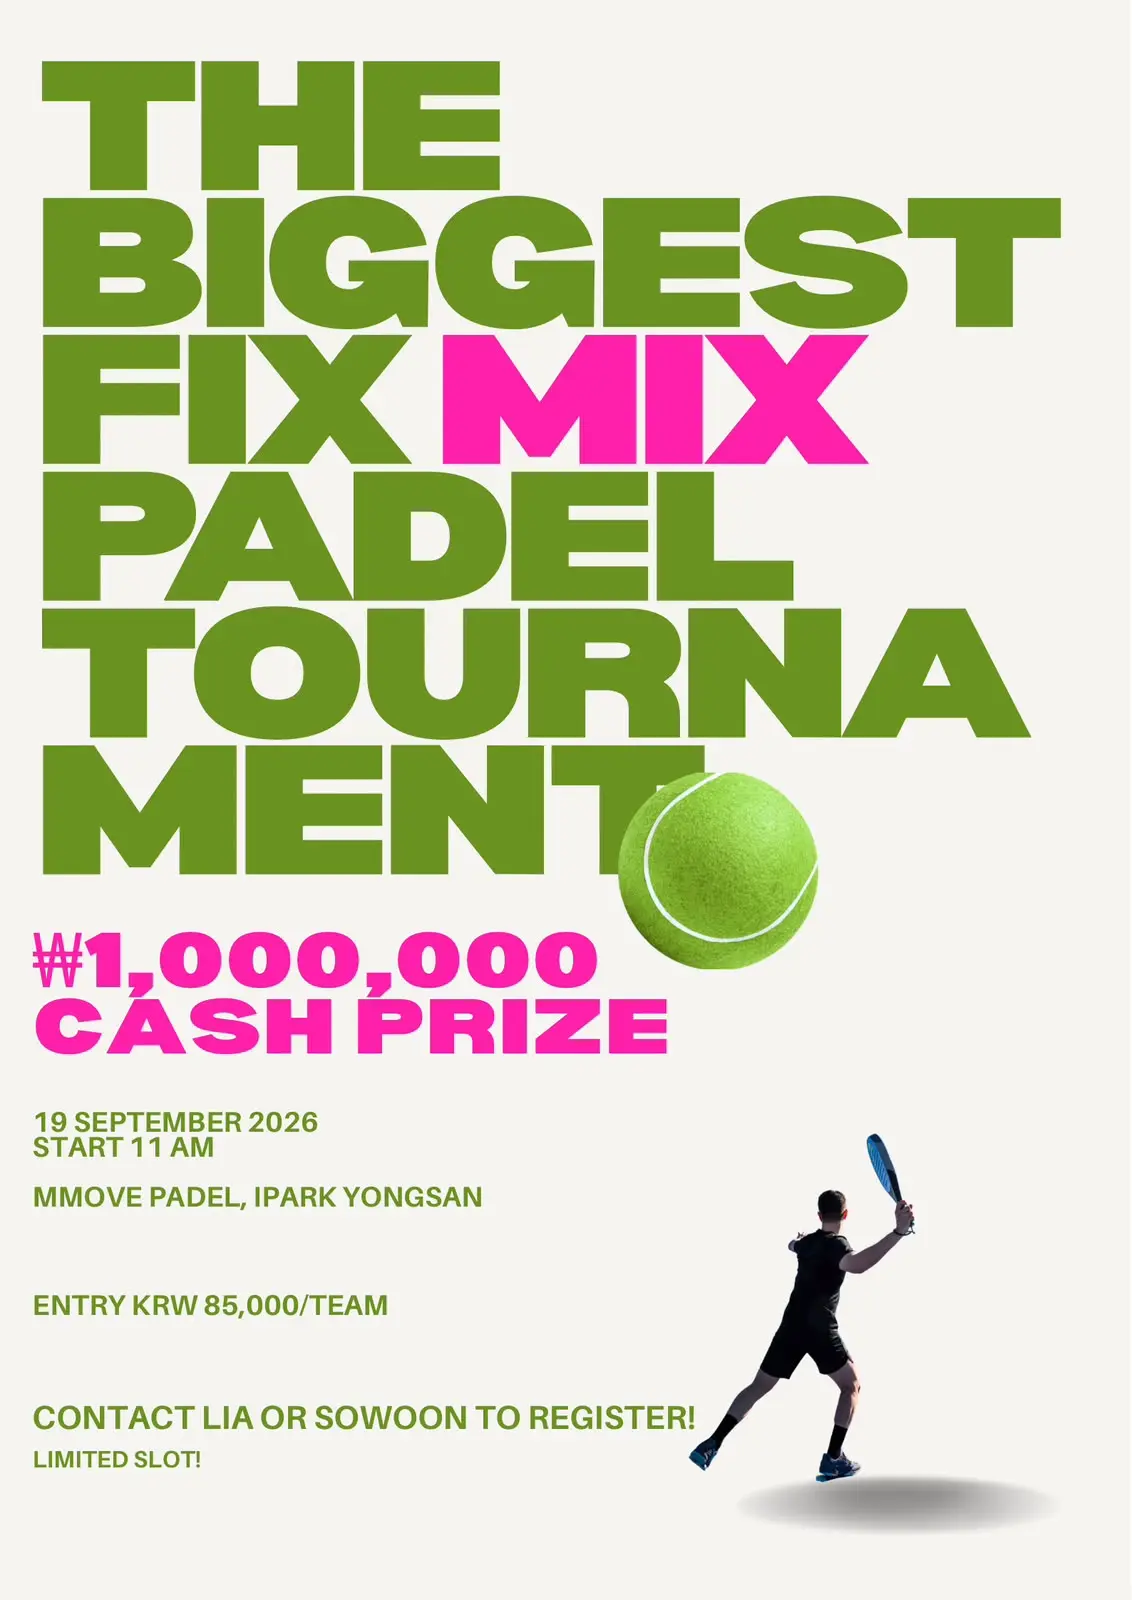
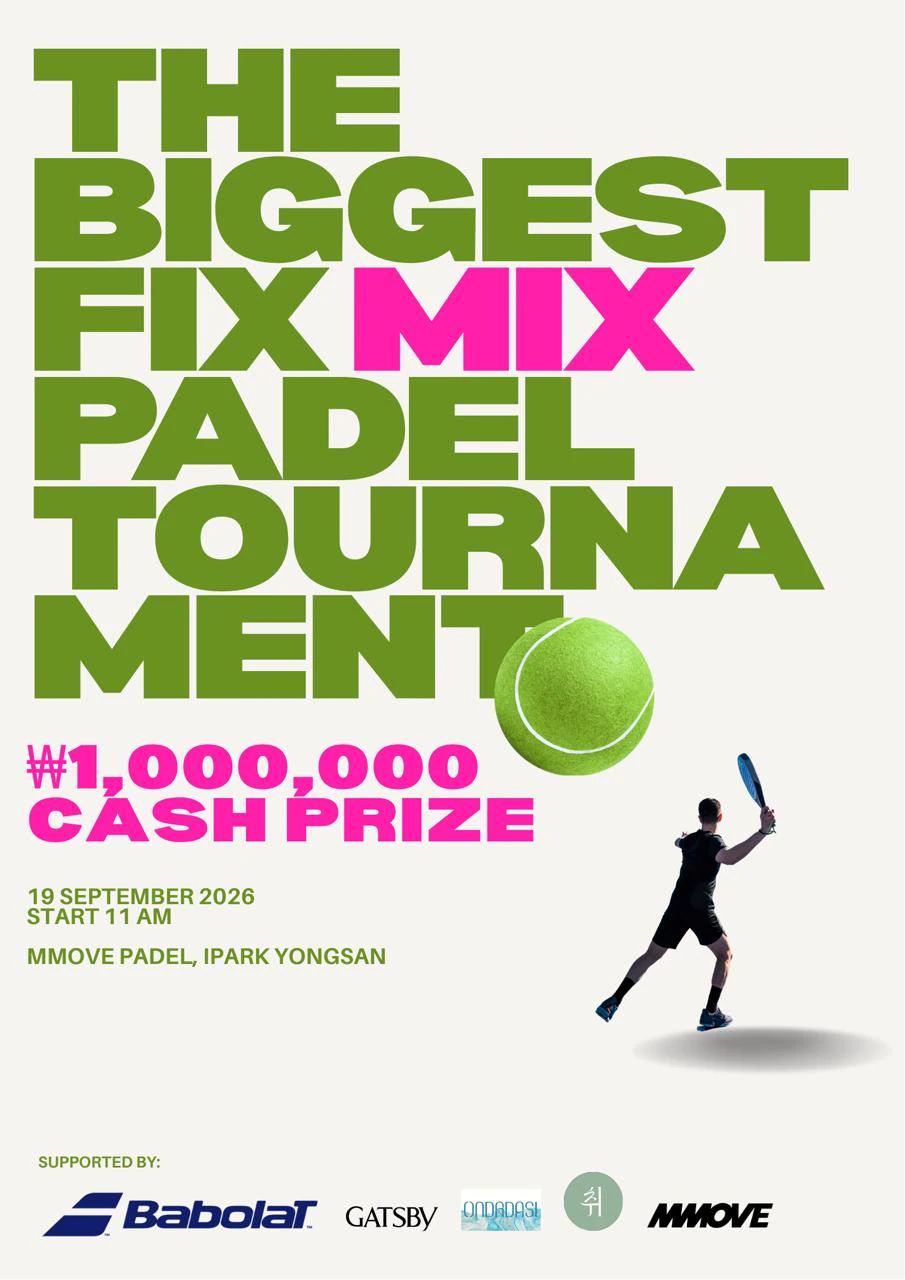
Update poster and replace A3 with ONE TEAM

diff --git a/index.html b/index.html
@@ -15,7 +15,7 @@
     <span class="edition"><span class="edition-location">SEOUL, KOREA</span><span class="edition-divider" aria-hidden="true"> / </span><span class="edition-year">2026</span></span>
   </header>
   <main>
-    <section class="poster-hero" aria-label="Nopson Tournament official poster"><img src="assets/nopson-tournament-poster.webp" alt="Nopson Tournament: 19 September 2026, 11 AM at Mmove Padel, Ipark Yongsan. ₩1,000,000 cash prize." width="1132" height="1600" fetchpriority="high"></section>
+    <section class="poster-hero" aria-label="Nopson Tournament official poster"><img src="assets/nopson-tournament-poster.webp?v=20260914" alt="Nopson Tournament: 19 September 2026, 11 AM at Mmove Padel, Ipark Yongsan. ₩1,000,000 cash prize." width="905" height="1280" fetchpriority="high"></section>
     <nav class="tabs" role="tablist" aria-label="Tournament sections">
       <button id="tab-overview" role="tab" aria-selected="true" aria-controls="overview" data-tab="overview">Overview</button>
       <button id="tab-draws" role="tab" aria-selected="false" aria-controls="draws" data-tab="draws" tabindex="-1">Draws</button>
@@ -58,6 +58,6 @@
     <span class="copyright">© 2026 Nopson Tournament. All rights reserved.</span>
   </footer>
   <script src="app.js"></script>
-  <script type="module" src="live-scores.js?v=20260912-group-swap"></script>
+  <script type="module" src="live-scores.js?v=20260914-one-team"></script>
 </body>
 </html>

diff --git a/tournament-data.js b/tournament-data.js
@@ -13,7 +13,7 @@ const flagData = {
 export const teams = [
   { slot: 'A1', name: 'NOPSON TEAM', members: [{ name: 'Lia', country: 'ID' }, { name: 'Sony', country: 'ID' }] },
   { slot: 'A2', name: 'SO LUCKY JO TEAM', members: [{ name: 'Sowoon', country: 'KR' }, { name: 'Jaehwan', country: 'KR' }] },
-  { slot: 'A3', name: 'EUNA JAESUN TEAM', members: [{ name: 'Euna Ryu', country: 'KR' }, { name: 'Jaesun Lee', country: 'KR' }] },
+  { slot: 'A3', name: 'ONE TEAM', members: [{ name: 'Morrison', country: 'KR' }, { name: 'Wan Soon', country: 'TH' }] },
   { slot: 'A4', name: 'LOOFAH 🧽', members: [{ name: 'Lucas', country: 'FR' }, { name: 'Fati', country: 'KR' }] },
   { slot: 'A5', name: 'MaFia TEAM', members: [{ name: 'Matt', country: 'US' }, { name: 'Sofia', country: 'UA' }] },
   { slot: 'B1', name: 'KILLER TEAM', members: [{ name: 'Joe', country: 'KR' }, { name: 'Anna', country: 'KR' }] },

diff --git a/live-scores.js b/live-scores.js
@@ -1,5 +1,5 @@
 import { createClient } from 'https://cdn.jsdelivr.net/npm/@supabase/supabase-js@2.57.4/+esm';
-import { groupFixtures, renderTournamentContent, teamMembersByName } from './tournament-data.js?v=20260912-group-swap';
+import { groupFixtures, renderTournamentContent, teamMembersByName } from './tournament-data.js?v=20260914-one-team';
 
 renderTournamentContent();
 
